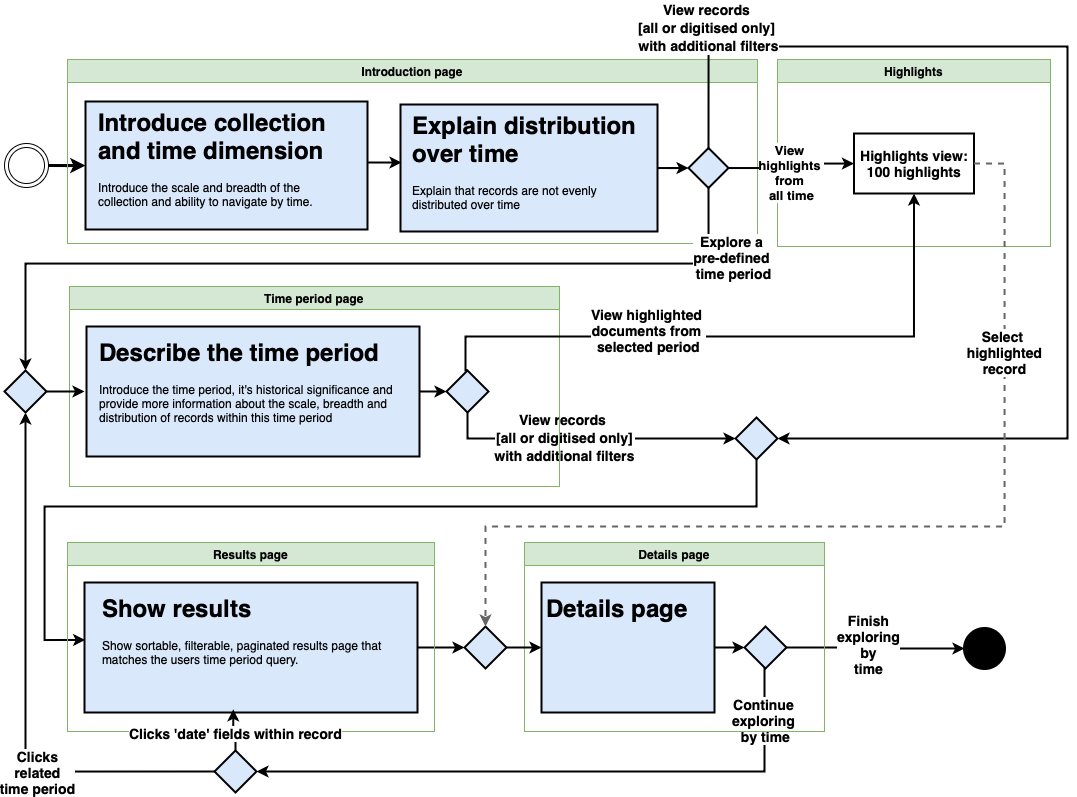
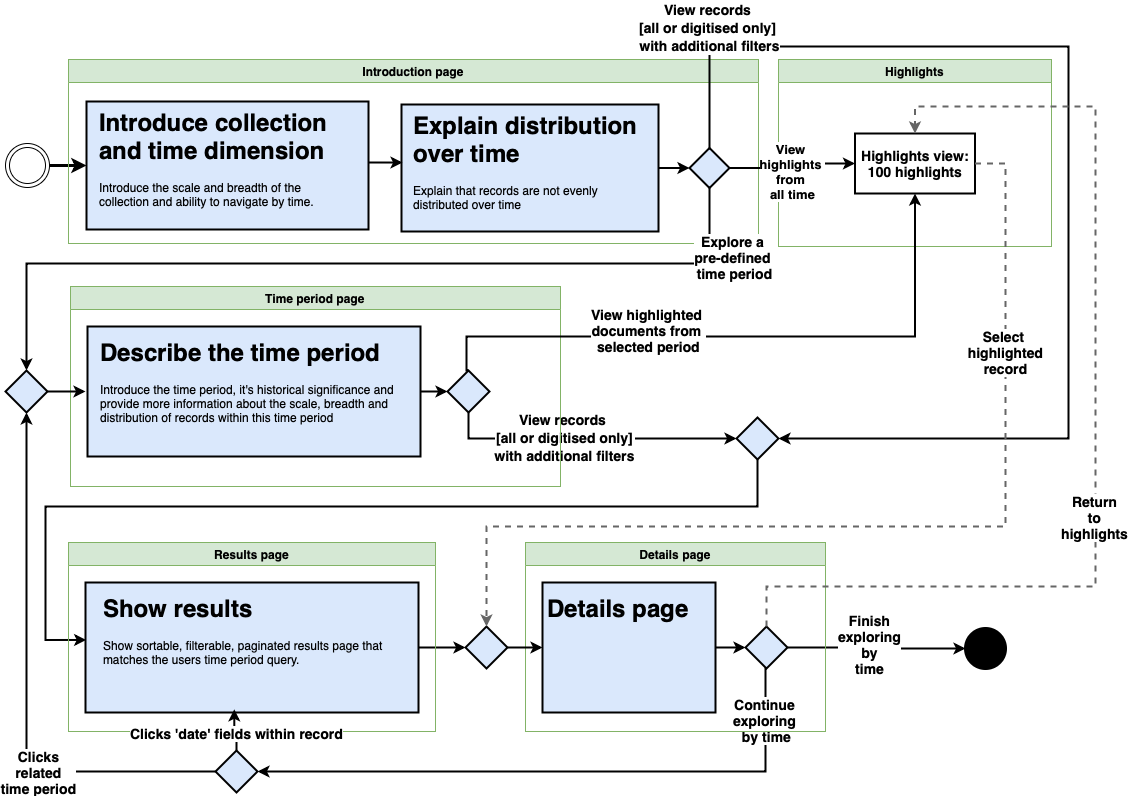
Update README

diff --git a/gwyn_proposal_iteration_two/README.md b/gwyn_proposal_iteration_two/README.md
@@ -2,17 +2,29 @@
 
 ## Approach
 
-This prototype seeks to improve the Explore prototype by: 
+This prototype seeks to improve the current prototype, addressing the known issues, while still meeting the [spirit of generous interfaces](https://pro.europeana.eu/page/issue-11-generous-interfaces)
 
-* Leading the user through a process where **concepts and options are introduced in sequence** rather than all at once. This is based on an assumption that it will better serve the needs of new and novice users.
-* **Presenting one idea or set of related choices per page**. It is hoped this will help new and novice users have a sense of progress and avoid feeling overwhelmed.
-* **Emphasising the relationship between the user's action and the consequences of those actions**. This is so that the user has a clear sense of the _whole_ impact of their choices and the relationship between their current options and those that led to them. 
-* Placing **greater responsibility on textual content to convey critical information**. This is on the basis that it will improve accessibility and afford us more flexibility when determining the best infographic approach at different screen resolutions.
-* **Introducing a specialist view for 'highlights'**. This is on the basis that highlights are special and, while we can still present them interspersed withing 'normal' records, there is an argument for there to be an interface designed specifically for users that are interested only in the highlights from a given period or all time.
+> “humans like to look, we don’t like to search”
 
-![The proposed flow](proposed_flow.png "The proposed flow    ")
+and ...
+
+> “Generous interfaces offer rich, browsable views; provide evocative samples of primary content; and support an understanding of context and relationships”
+
+
+| Moving from | Moving to  | Rationale | 
+|---|---|---|
+| All controls and results being immediately visible   | Leading the user through a process where **information, concepts (time periods, distributions etc.) and controls are introduced in a logical sequence**  | This is based on an assumption that it will allow us to focus the user on key information and help novice users process necessary information  |
+| All controls and results being immediately visible  | **Presenting one idea and set of related choices per page**  | It is hoped this will help new and novice users by: providing the user with a sense of progress through their refinements, and; focusing the content on explaining the current step and the options which relate to it.  |
+| A single interface which mixes controls and results | Separating interfaces where users make choices from the interfaces that show the consequences of those choices | This is to give users a clearer sense of the _whole_ impact of their choices. For example, it is not necessarily clear in the current interface that changing a date period results in a change to the number of records, the record listing, the distribution graphic and available subject filters. |
+| A heavy reliance upon graphical elements | Placing **greater responsibility on textual content to convey critical information**  | This is on the basis that it will improve accessibility and afford us more flexibility when determining the best visualisation and/or infographic approach at different screen resolutions. |
+| An interface that merges content with controls  | **A clear separation between content that is designed to communicate information and controls** which change the data being represented | This is to simplify the user interface and avoid the frustration caused by affordance issues (where users expect to be able to interact with parts of the widget) |
+| A single result listing which includes relevant highlights | **Introducing a specialist view for 'highlights'**  | This is on the basis that highlights are special and, while we can still present them interspersed withing 'normal' records, there is an argument for there to be an interface designed specifically for users that are interested only in the highlights from a given period or all time. |
+| The use of custom JavaScript widgets | using **using standard browser controls** as the default interaction mechanism ||
+
+
+![The proposed flow](proposed_flow.png "The proposed flow")
 
 ## Running the code 
 
-from `gwyn_proposed_approach` run `php -S localhost:8000` in Terminal. Then visit [localhost:8000](http://localhost:8000)
+from this directory run `php -S localhost:8000` in Terminal. Then visit [localhost:8000](http://localhost:8000)
 
